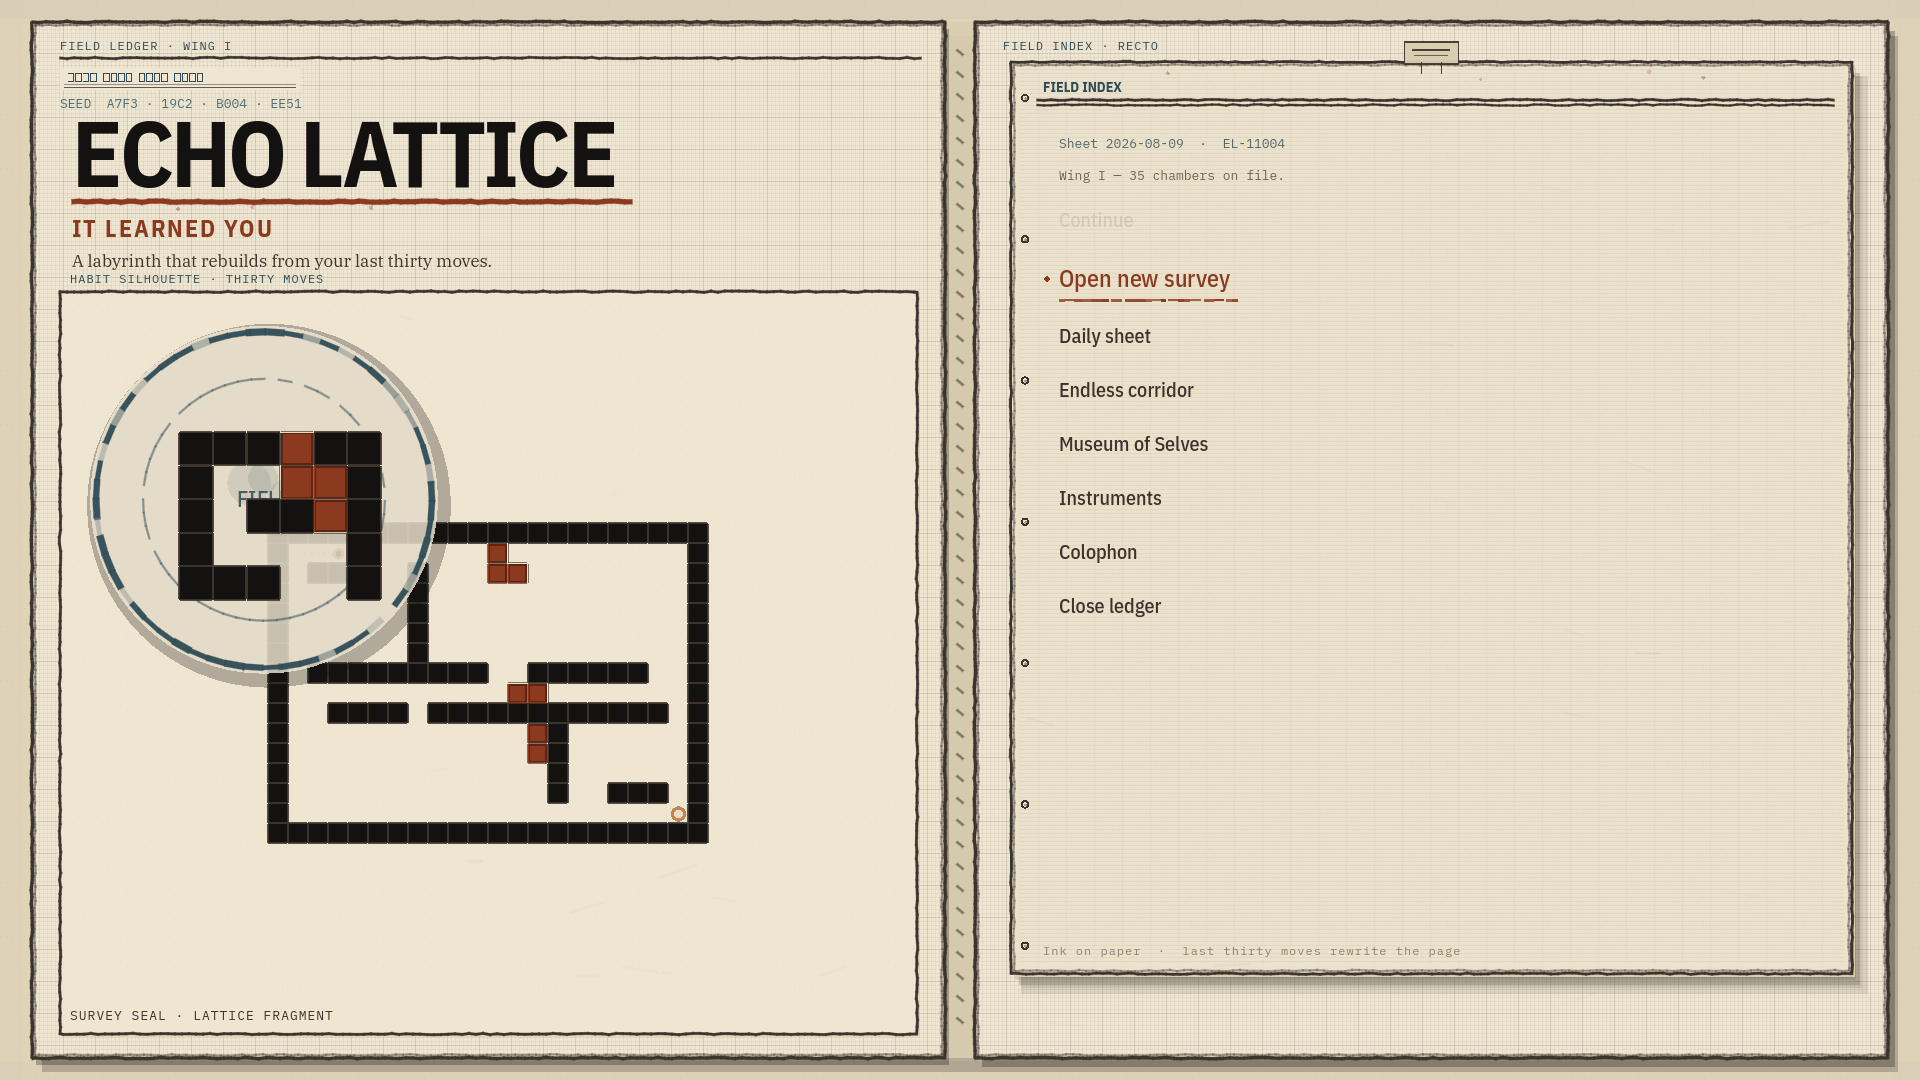
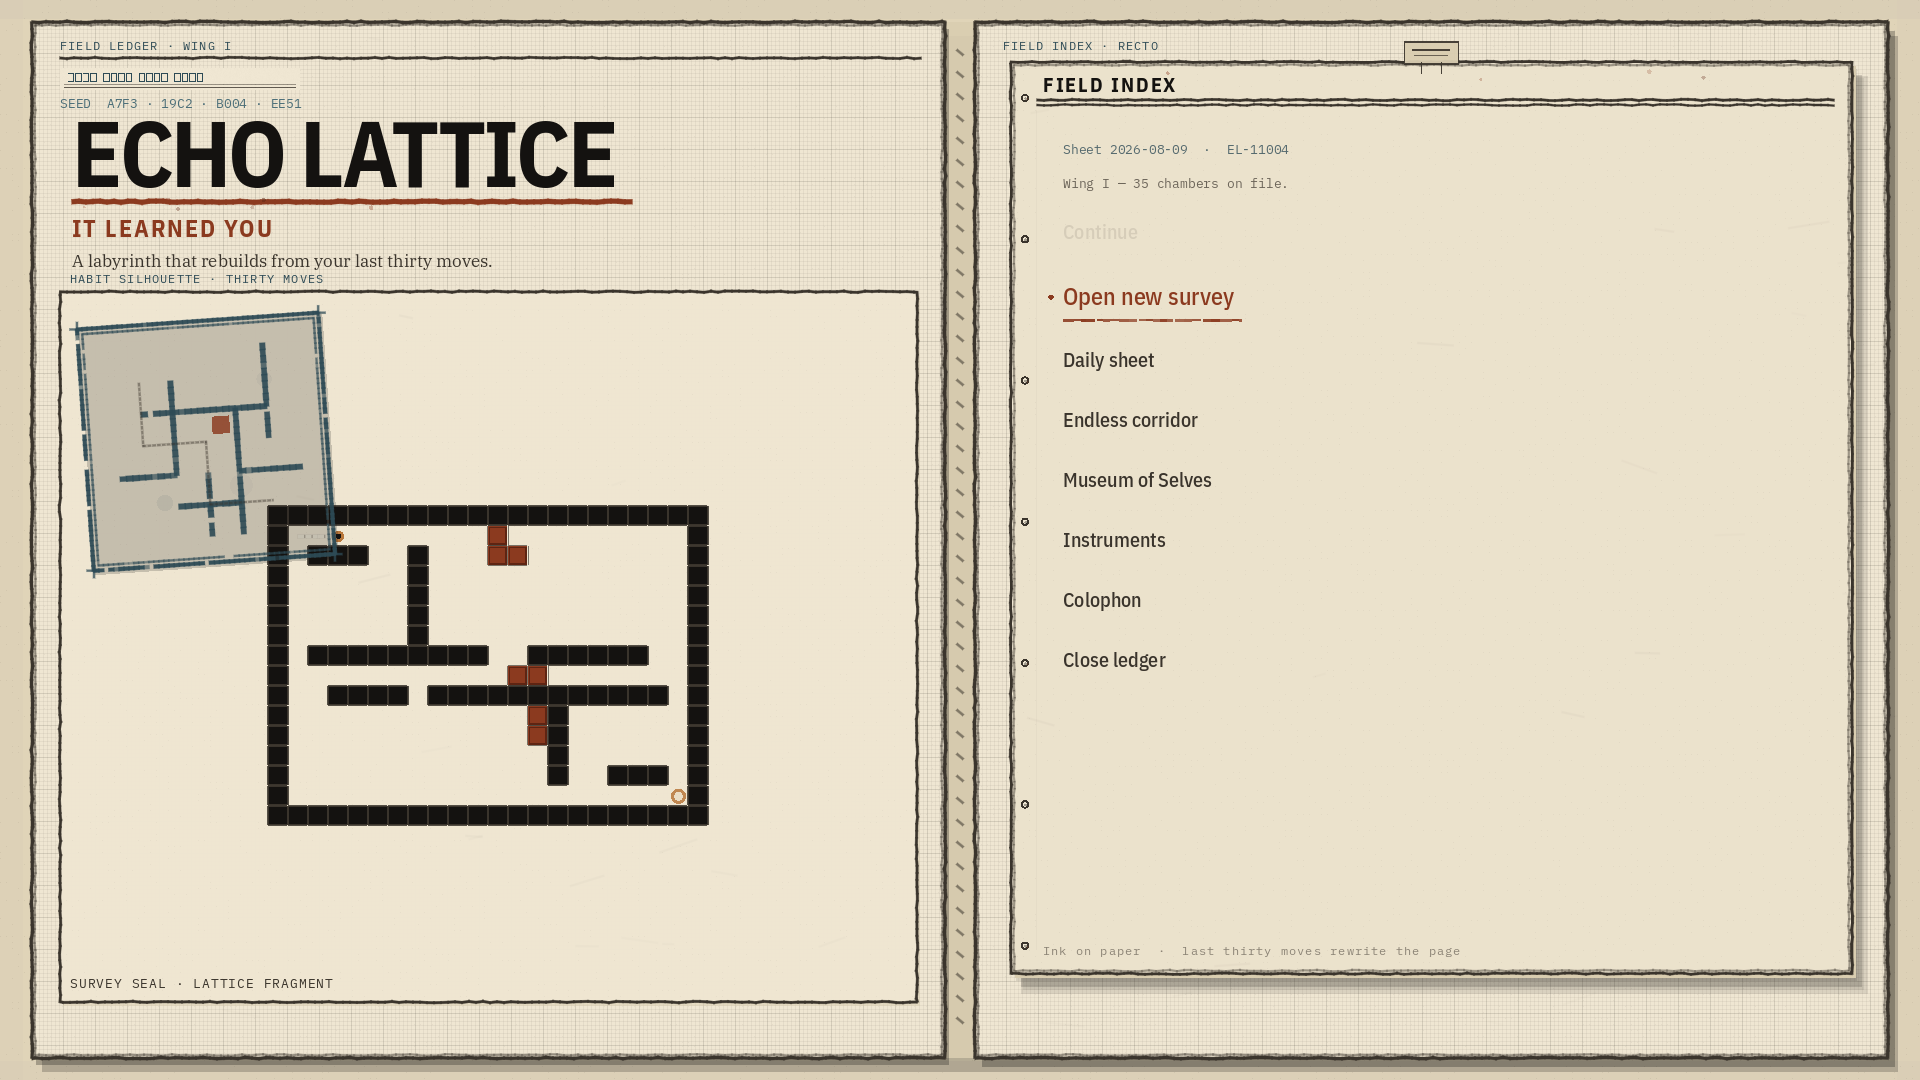
media(menu): recapture 10/10 brand slate + seal-v2 plate polish
Incorporate menu-seal-v2 crop-mark / continuous-plate polish and
menu-field-index-10 quiet stock intent; recapture Partner slate + trailer
title frame; tighten ribbon QA to require punch-card gaps.

diff --git a/docs/RELEASE/screenshots/TOUR.md b/docs/RELEASE/screenshots/TOUR.md
@@ -15,7 +15,7 @@ Looking Glass mid-slam — trail folding into walls; habit still sealed until Mi
 
 ![Main menu](02_brand_main_menu.png)
 
-Open Field Ledger folio: verso brand + large survey seal stamped on a habit-silhouette maze; recto Field Index (survey / Daily / Endless / Museum / Colophon). Spine kills the dead center void. No chamber BUFFER / Move chrome.
+Open Field Ledger folio: verso brand + letterpress survey seal plate on a habit-silhouette maze; recto premium Field Index (selection-only rules, quiet stock). Spine kills the dead center void. No chamber BUFFER / Move chrome.
 
 ## 03 — Chamber start
 
